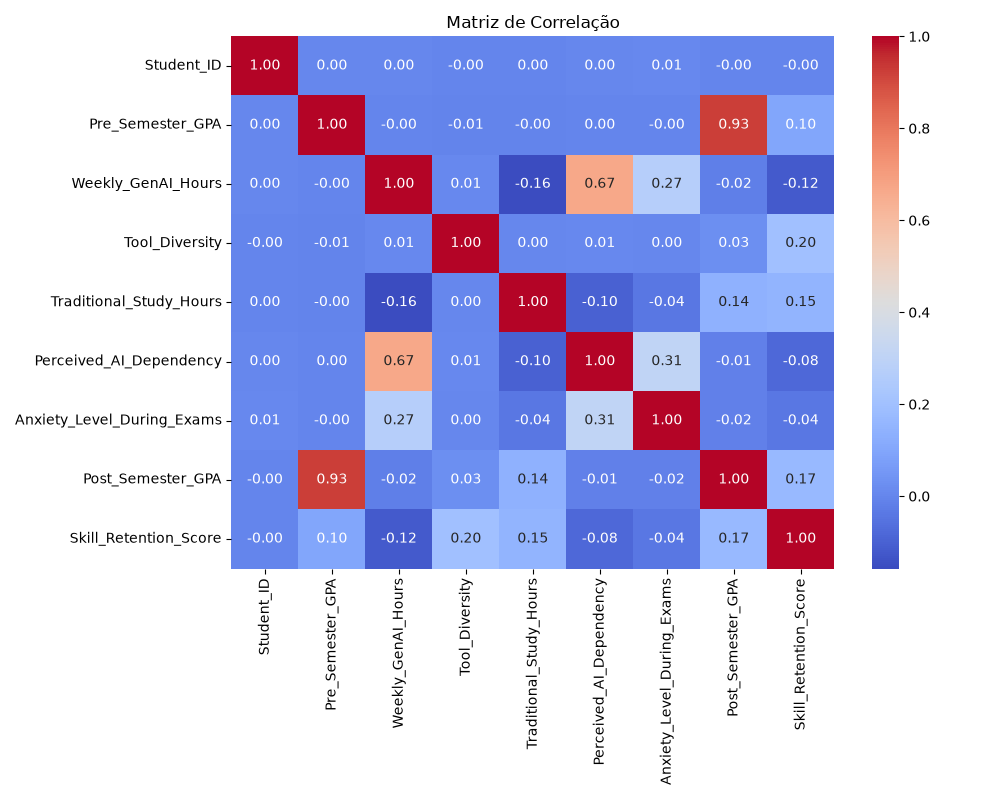
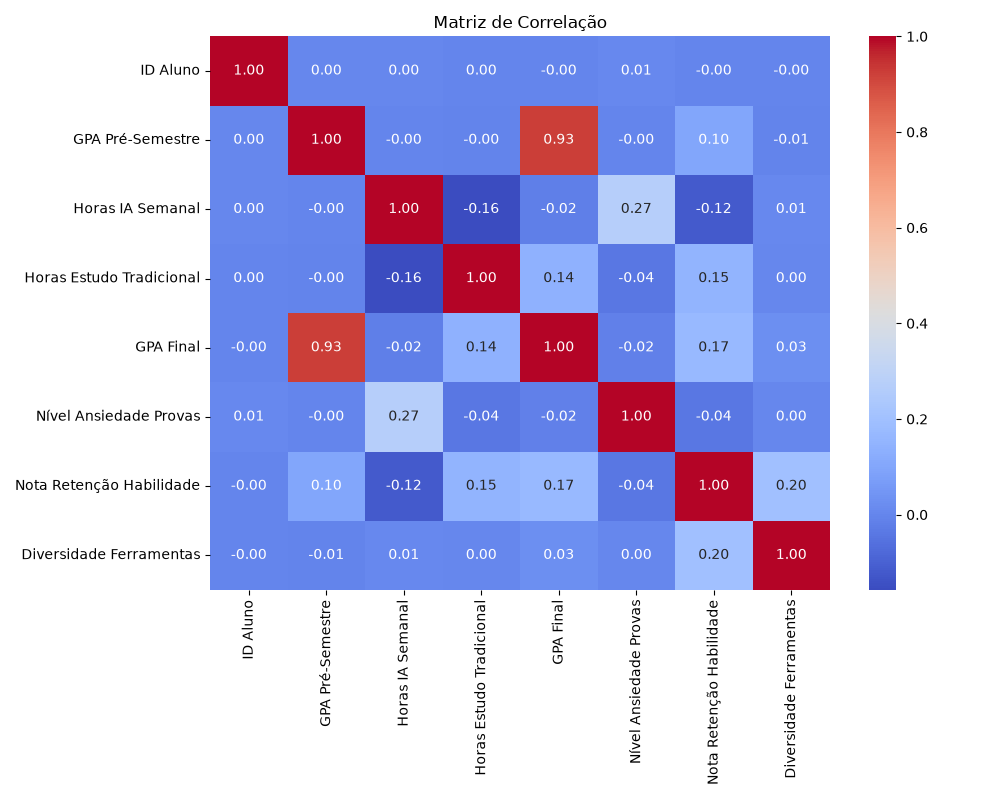
nova alteracao

diff --git a/main.py b/main.py
@@ -3,80 +3,65 @@ import numpy as np
 import matplotlib.pyplot as plt
 import scipy.stats as stats
 import statsmodels.api as sm
-from statsmodels.stats.multicomp import pairwise_tukeyhsd
-from statsmodels.stats.diagnostic import het_breuschpagan
 import seaborn as sns
 
 # 1. CARREGAMENTO DOS DADOS
 df = pd.read_csv('db.csv')
 
-# --- ETAPA 2: CRÍTICA E LIMPEZA DOS DADOS ---
-print("="*60)
-print(" ETAPA 2 - CRÍTICA E LIMPEZA DOS DADOS")
-print("="*60)
+# --- ETAPA 2: LIMPEZA ---
 for col in df.columns:
     if df[col].dtype in ['float64', 'int64']:
         df[col] = df[col].fillna(df[col].mean())
     else:
         df[col] = df[col].fillna(df[col].mode()[0])
-print("Limpeza concluída.\n")
 
-# --- ETAPA 3: ANÁLISE EXPLORATÓRIA (Gerando Gráficos) ---
-print("="*60)
-print(" ETAPA 3 - ANÁLISE EXPLORATÓRIA")
-print("="*60)
+# Dicionário de tradução fixo
+traducao_colunas = {
+    'Student_ID': 'ID Aluno',
+    'Pre_Semester_GPA': 'GPA Pré-Semestre',
+    'Weekly_GenAI_Hours': 'Horas IA Semanal',
+    'Traditional_Study_Hours': 'Horas Estudo Tradicional',
+    'Post_Semester_GPA': 'GPA Final',
+    'Anxiety_Level_During_Exams': 'Nível Ansiedade Provas',
+    'Skill_Retention_Score': 'Nota Retenção Habilidade',
+    'Tool_Diversity': 'Diversidade Ferramentas'
+}
 
-# Gráfico 1: Distribuição e Boxplot
-plt.figure(figsize=(12, 5))
-plt.subplot(1, 2, 1)
-sns.histplot(df['Post_Semester_GPA'], kde=True)
+# --- ETAPA 3: ANÁLISE EXPLORATÓRIA ---
+# Histograma
+plt.figure(figsize=(6, 4))
+sns.histplot(df['Post_Semester_GPA'], kde=True, color='skyblue')
 plt.title('Distribuição GPA Final')
-plt.subplot(1, 2, 2)
-sns.boxplot(y=df['Post_Semester_GPA'])
-plt.title('Boxplot GPA Final')
+plt.xlabel('GPA Final')
+plt.ylabel('Frequência')
 plt.tight_layout()
-plt.savefig('analise_exploratoria.png')
-plt.close() # Fecha a figura após salvar
-print("Gráfico 'analise_exploratoria.png' gerado.")
+plt.savefig('distribuicao_gpa.png')
+plt.close()
+
+# Boxplot
+plt.figure(figsize=(6, 4))
+sns.boxplot(y=df['Post_Semester_GPA'], color='lightgreen')
+plt.title('Boxplot GPA Final')
+plt.ylabel('GPA Final')
+plt.tight_layout()
+plt.savefig('boxplot_gpa.png')
+plt.close()
 
 # --- ETAPA 4: MATRIZ DE CORRELAÇÃO ---
-print("\n" + "="*60)
-print(" ETAPA 4 - MATRIZ DE CORRELAÇÃO")
-print("="*60)
-colunas_num = df.select_dtypes(include=['float64', 'int64']).columns
-correlacao = df[colunas_num].corr(method='pearson')
+# Renomeamos as colunas ANTES de calcular a correlação
+df_plot = df.rename(columns=traducao_colunas)
+
+# Selecionamos apenas as colunas que agora possuem nomes em português
+colunas_pt = [traducao_colunas[c] for c in traducao_colunas if c in df.columns]
+correlacao = df_plot[colunas_pt].corr(method='pearson')
 
 plt.figure(figsize=(10, 8))
-sns.heatmap(correlacao, annot=True, cmap='coolwarm', fmt=".2f")
+# Ajuste fino: usamos o próprio dataframe de correlação renomeado
+sns.heatmap(correlacao, annot=True, cmap='coolwarm', fmt=".2f", 
+            xticklabels=correlacao.columns, yticklabels=correlacao.columns)
 plt.title('Matriz de Correlação')
 plt.tight_layout()
 plt.savefig('matriz_correlação.png')
-plt.close() # Fecha a figura após salvar
-print("Gráfico 'matriz_correlação.png' gerado.")
+plt.close()
 
-# --- ETAPA 5: TESTES DE HIPÓTESES ---
-print("\n" + "="*60)
-print(" ETAPA 5 - TESTES DE HIPÓTESES")
-print("="*60)
-grupo1 = df[df['Paid_Subscription'] == True]['Post_Semester_GPA']
-grupo2 = df[df['Paid_Subscription'] == False]['Post_Semester_GPA']
-t_stat, p_val = stats.ttest_ind(grupo1, grupo2)
-print(f"Teste T (Paid_Subscription): Valor-p = {p_val:.4f}")
-
-# --- ETAPA 6: ANOVA ---
-print("\n" + "="*60)
-print(" ETAPA 6 - ANOVA")
-print("="*60)
-grupos = [group['Post_Semester_GPA'] for name, group in df.groupby('Burnout_Risk_Level')]
-f_stat, p_val_anova = stats.f_oneway(*grupos)
-print(f"Resultado ANOVA: F={f_stat:.4f}, Valor-p={p_val_anova:.4e}")
-
-# --- ETAPA 7: REGRESSÃO LINEAR MÚLTIPLA ---
-print("\n" + "="*60)
-print(" ETAPA 7 - REGRESSÃO LINEAR MÚLTIPLA")
-print("="*60)
-y = df['Post_Semester_GPA']
-X = df[['Pre_Semester_GPA', 'Weekly_GenAI_Hours', 'Traditional_Study_Hours']]
-X = sm.add_constant(X)
-modelo = sm.OLS(y, X).fit()
-print(modelo.summary())
+print("Arquivos gerados: distribuicao_gpa.png, boxplot_gpa.png, matriz_correlação.png")